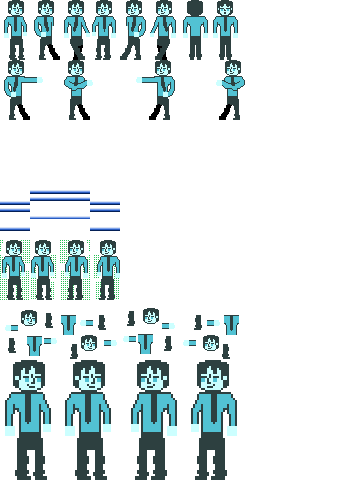
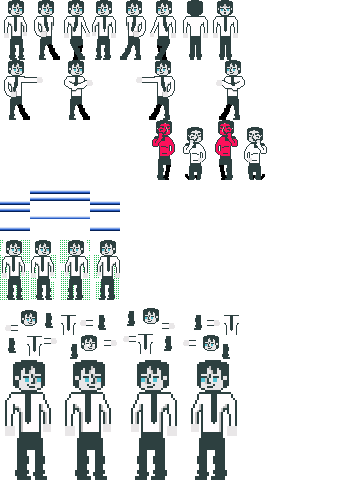
Updated art. Implemented hurt animation.

diff --git a/src/systems/AnimationSystem.cpp b/src/systems/AnimationSystem.cpp
@@ -122,52 +122,103 @@ void AnimationSystem::Update(float& dt)
 						anim_comp.frame_count = 0;
 					}
 					
-					if(west)
+					//if player is hurt
+					if(anim_comp.hurt)
 					{
-						anim_comp.face_dir = FaceDirection::WEST;
-						//face left
-						frame_rect_ptr = &character_frame_animations[render_comp.char_texture_index].left_walk_frames.frames[anim_comp.frame_count];
-					}
-					else if(east)
-					{
-						anim_comp.face_dir = FaceDirection::EAST;
-						//face right
-						frame_rect_ptr = &character_frame_animations[render_comp.char_texture_index].right_walk_frames.frames[anim_comp.frame_count];
-					}
-					
-					if(south && !west && !east)
-					{
-						anim_comp.face_dir = FaceDirection::SOUTH;
-						//face down
-						frame_rect_ptr = &character_frame_animations[render_comp.char_texture_index].down_still_frame.frame;
-						anim_comp.frame_count = 0;
-					}
-					else if(north && !west && !east)
-					{
-						anim_comp.face_dir = FaceDirection::NORTH;
-						//face up
-						frame_rect_ptr = &character_frame_animations[render_comp.char_texture_index].up_still_frame.frame;
-						anim_comp.frame_count = 0;
-					}
-					
-					
-					//limited to only 2 frames of animation
-					if(no_move )
-					{
-						anim_comp.frame_count = 0;
-						
+						if(west)
+						{
+							anim_comp.face_dir = FaceDirection::WEST;
+							
+							//face left
+							frame_rect_ptr = &character_frame_animations[render_comp.char_texture_index].right_hurt_frames.frames[anim_comp.frame_count];
+						}
+						else if(east)
+						{
+							anim_comp.face_dir = FaceDirection::EAST;
+							//face right hurt
+							frame_rect_ptr = &character_frame_animations[render_comp.char_texture_index].right_hurt_frames.frames[anim_comp.frame_count];
+						}
+						else if(south && !west && !east)
+						{
+							anim_comp.face_dir = FaceDirection::SOUTH;
+							
+							//need to add down hurt frames
+							
+							anim_comp.frame_count = 0;
+						}
+						else if(north && !west && !east)
+						{
+							anim_comp.face_dir = FaceDirection::NORTH;
+							
+							//need to add up hurt frames
+							
+							anim_comp.frame_count = 0;
+						}
 						if(no_move)
 						{
 							if(anim_comp.face_dir == FaceDirection::EAST)
 							{
-								frame_rect_ptr = &character_frame_animations[render_comp.char_texture_index].right_still_frame.frame;
+								frame_rect_ptr = &character_frame_animations[render_comp.char_texture_index].right_hurt_frames.frames[anim_comp.frame_count];
 							}
 							else if(anim_comp.face_dir == FaceDirection::WEST)
 							{
-								frame_rect_ptr = &character_frame_animations[render_comp.char_texture_index].left_still_frame.frame;
+								frame_rect_ptr = &character_frame_animations[render_comp.char_texture_index].left_hurt_frames.frames[anim_comp.frame_count];
 							}
 						}
 					}
+					//else if player is not hurt
+					else
+					{
+						if(west)
+						{
+							anim_comp.face_dir = FaceDirection::WEST;
+							//face left
+							frame_rect_ptr = &character_frame_animations[render_comp.char_texture_index].left_walk_frames.frames[anim_comp.frame_count];
+						}
+						else if(east)
+						{
+							anim_comp.face_dir = FaceDirection::EAST;
+							//face right
+							frame_rect_ptr = &character_frame_animations[render_comp.char_texture_index].right_walk_frames.frames[anim_comp.frame_count];
+						}
+						
+						if(south && !west && !east)
+						{
+							anim_comp.face_dir = FaceDirection::SOUTH;
+							//face down
+							frame_rect_ptr = &character_frame_animations[render_comp.char_texture_index].down_still_frame.frame;
+							anim_comp.frame_count = 0;
+						}
+						else if(north && !west && !east)
+						{
+							anim_comp.face_dir = FaceDirection::NORTH;
+							//face up
+							frame_rect_ptr = &character_frame_animations[render_comp.char_texture_index].up_still_frame.frame;
+							anim_comp.frame_count = 0;
+						}
+						
+						
+						//limited to only 2 frames of animation
+						if(no_move )
+						{
+							anim_comp.frame_count = 0;
+							
+							if(no_move)
+							{
+								if(anim_comp.face_dir == FaceDirection::EAST)
+								{
+									frame_rect_ptr = &character_frame_animations[render_comp.char_texture_index].right_still_frame.frame;
+								}
+								else if(anim_comp.face_dir == FaceDirection::WEST)
+								{
+									frame_rect_ptr = &character_frame_animations[render_comp.char_texture_index].left_still_frame.frame;
+								}
+							}
+						}
+					}
+					
+					
+					
 					
 				}
 				

diff --git a/src/systems/AttackPowerMechanicSystem.cpp b/src/systems/AttackPowerMechanicSystem.cpp
@@ -709,6 +709,7 @@ void AttackPowerMechanicSystem::CollisionDetectionBetweenPlayers()
 		player_b_num = 8;
 		AttackPowerMechanicSystem::HandlePossibleCollisionBetweenPlayers(player_a_num,player_b_num);
 	}
+	
 }
 
 bool AttackPowerMechanicSystem::AreBothPlayersAlive(int& player_a_num, int& player_b_num)
@@ -812,6 +813,37 @@ void AttackPowerMechanicSystem::HandlePossibleCollisionBetweenPlayers(int& playe
 	}
 }
 
+void AttackPowerMechanicSystem::ReactToCollisions(float& dt)
+{
+	for(auto const& entity: mEntities)
+	{
+		
+		auto& rigidBody = gCoordinator.GetComponent<RigidBody2D>(entity);
+		auto& player = gCoordinator.GetComponent<Player>(entity);
+		auto& animation = gCoordinator.GetComponent<Animation>(entity);
+		//auto& collisionBox = gCoordinator.GetComponent<CollisionBox>(entity);
+		
+		//if player is in state of taking damage 
+		//activate hurt animation and keep them from moving
+		if(player.taking_damage)
+		{
+			//reset animation
+			animation.attackMode = -1;
+			animation.frame_count = 0;
+			animation.hurt = true;
+			
+			//stop player from moving
+			rigidBody.velocity.x = 0.0f;
+			rigidBody.velocity.y = 0.0f;
+		
+		}
+		else
+		{
+			animation.hurt = false;
+		}
+		
+	}
+}
 
 static bool debugRenderAttackBox = false;
 static bool debugDrawPowerRequest = false;

diff --git a/src/misc/CharacterAssetManager.cpp b/src/misc/CharacterAssetManager.cpp
@@ -92,7 +92,7 @@ static bool LoadFrameAnimationFromThisFile(std::string filepath_frames, CharFram
     //set up tile selector based on data
     pugi::xml_node framesRoot = root.child("Frames");
     
-    std::array <Rectangle,32> frames;
+    std::array <Rectangle,36> frames;
     
     size_t iterator = 0;
 	//go through each frame in frames node
@@ -206,6 +206,14 @@ static bool LoadFrameAnimationFromThisFile(std::string filepath_frames, CharFram
 	
 	char_frame.down_attack_mode_frames[5].frames[0] = char_frame.left_attack_mode_frames[5].frames[0];
 	char_frame.down_attack_mode_frames[5].frames[1] = char_frame.left_attack_mode_frames[5].frames[1];
+	
+	//hurt frames
+	
+	char_frame.left_hurt_frames.frames[0] = frames[32];
+	char_frame.left_hurt_frames.frames[1] = frames[33];
+	
+	char_frame.right_hurt_frames.frames[0] = frames[34];
+	char_frame.right_hurt_frames.frames[1] = frames[35];
 	
     return true;
 }

diff --git a/src/systems/AttackPowerMechanicSystem.h b/src/systems/AttackPowerMechanicSystem.h
@@ -33,6 +33,8 @@ public:
 	
 	void CollisionDetectionBetweenPlayers();
 	
+	void ReactToCollisions(float& dt);
+	
 	void DebugRender();
 	
 private:
@@ -47,9 +49,11 @@ private:
 	std::array <bool*,8> player_alive_ptrs;
 	std::array <bool*,8> player_taking_damage_state_ptrs;
 	
+	//collision handling functions to determine if players hit each other
 	bool AreBothPlayersAlive(int& player_a_num, int& player_b_num);
 	AttackEvent CheckCollisionBetween2Players(int& player_a_num, int& player_b_num);
 	void HandlePossibleCollisionBetweenPlayers(int& player_a_num, int& player_b_num);
+	
 	
 	
 	std::uint8_t m_num_players;

diff --git a/src/misc/media.h b/src/misc/media.h
@@ -35,6 +35,7 @@ struct CharFrames
 	TwoFrameGroup right_walk_frames;
 	TwoFrameGroup left_walk_frames;
 	
+	
 	//frames for attack modes
 	//organized like this to use animation attack mode as index of array for quicker processing
 	//first is regular attack, 0
@@ -44,7 +45,9 @@ struct CharFrames
 	std::array <TwoFrameGroup,9> up_attack_mode_frames;
 	std::array <TwoFrameGroup,9> down_attack_mode_frames;
 	
-	
+	//frames for being hurt
+	TwoFrameGroup right_hurt_frames;
+	TwoFrameGroup left_hurt_frames;
 };
 
 

diff --git a/src/systems/CameraSystem.cpp b/src/systems/CameraSystem.cpp
@@ -108,8 +108,8 @@ void CameraSystem::Update(float& scale)
 		zoom_factor = round(zoom_factor / 0.001f)*0.001f;
 		
 		camera_rect_ptr->width = (1 + zoom_factor)*640;
-		if(camera_rect_ptr->width < 340){camera_rect_ptr->width = 300;}
-		if(camera_rect_ptr->width > 680 ){camera_rect_ptr->width = 700;}
+		if(camera_rect_ptr->width < 350){camera_rect_ptr->width = 350;}
+		if(camera_rect_ptr->width > 650 ){camera_rect_ptr->width = 650;}
 		
 		camera_rect_ptr->height = (1 + 0.5*zoom_factor)*360;
 		

diff --git a/src/main.cpp b/src/main.cpp
@@ -325,6 +325,9 @@ void logic()
 			//check collisions between players
 			attackPowerMechanicSystem->CollisionDetectionBetweenPlayers();
 			
+			//react to collisions
+			attackPowerMechanicSystem->ReactToCollisions(dt);
+			
 			//perform power transactions if needed so that players can
 			//receive their slain opponent's power
 			attackPowerMechanicSystem->PerformNeededPowerTransactions();

diff --git a/src/core/component.h b/src/core/component.h
@@ -90,7 +90,11 @@ struct Animation
 	//for player, -1 = none, 0 = normal attack, 1-9 = special attack
 	std::int8_t attackMode = -1;
 	
+	//direction that player is facing
 	FaceDirection face_dir;
+	
+	//bool to indicate if player was hurt and needs to be in hurt animation
+	bool hurt;
 	
 };
 
